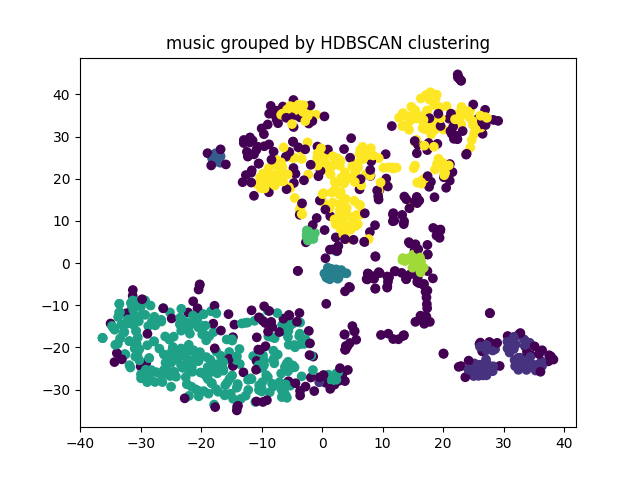
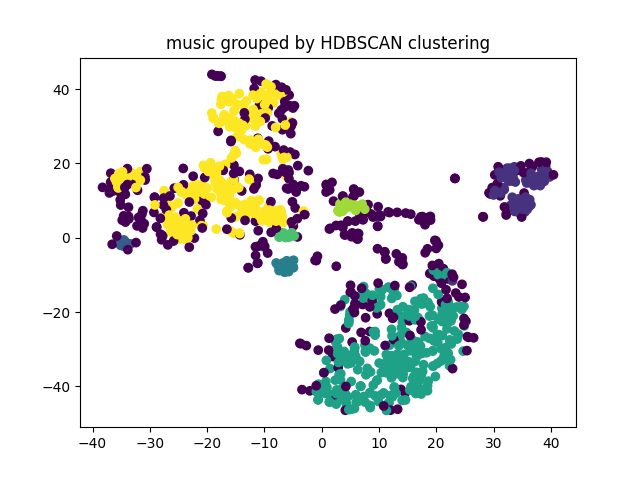
tested early exaggeration

diff --git a/src/main.py b/src/main.py
@@ -40,7 +40,7 @@ for file in os.listdir(embeding_dir):
     i += 1
 print(emb_list.shape)
 
-pca = TSNE(n_components=2)
+pca = TSNE(n_components=2, early_exaggeration = 30)
 x=pca.fit_transform(emb_list)
 
 label_encoder = LabelEncoder()
